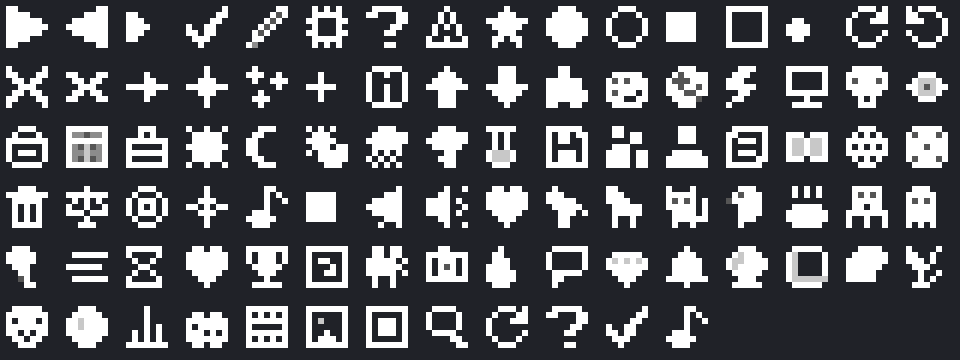
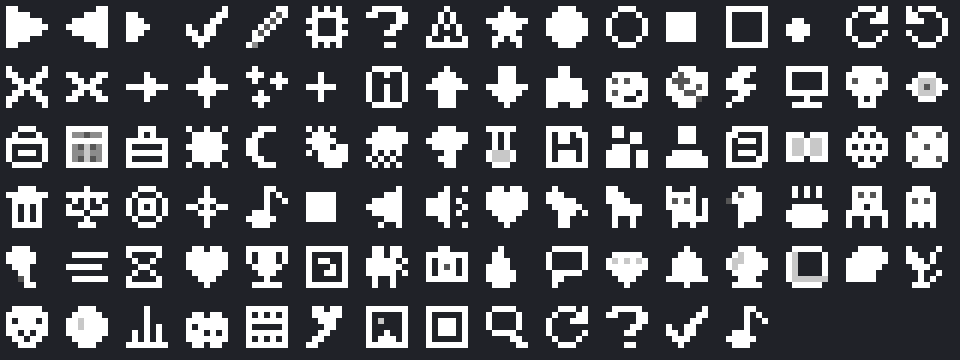
Publish Camera 1.7.1, GlassFrame 2.8.3, MobDesigner 1.4.1, ServerUI 1.16.0, ThemeCalm 1.0.2, ThemeHorror 2.3.4, ThemeLab 1.0.2

Changed region(s): [[0.3125, 0.825, 0.8125, 0.9778]]

diff --git a/serverui/build.py b/serverui/build.py
@@ -75,7 +75,7 @@ import zipfile
 import zlib
 
 NAME = "ServerUI"
-VERSION = "1.15.0"         # bumped with ../bump.py, never by hand
+VERSION = "1.16.0"         # bumped with ../bump.py, never by hand
 HERE = pathlib.Path(__file__).parent
 SRC = HERE / "src"
 DIST = HERE / "dist"
@@ -701,6 +701,13 @@ ART = {
            "#######",
            "#.#.#.#",
            "#######"],
+    "🔧": [".##.##.",          # a wrench: the plugins written here
+          ".#####.",
+          "..###..",
+          "...##..",
+          "..##...",
+          ".##....",
+          "##....."],
     "🖼": ["#######",          # a framed picture: the pattern gallery
           "#.....#",
           "#.+...#",

diff --git a/README.md b/README.md
@@ -10,7 +10,7 @@ pack.
 | [GlassFrame](glassframe/) | Glass with no borders at all, blocks and panes, so a window or floor reads as one clean sheet. Pairs with a plugin that draws the outline back only where the glass actually stops. | [`GlassFrame-2.8.3-borderless.zip`](glassframe/GlassFrame-2.8.3-borderless.zip) |
 | [Camera](camera/) | The Camera plugin's camera as a cute instant camera - empty, loaded, flashing - and its photos as polaroids tinted with each picture's own colour. Repaints two vanilla item definitions only where the plugin sets `custom_model_data`; real compasses and maps are untouched. | [`Camera-1.7.1.zip`](camera/Camera-1.7.1.zip) |
 | [MobDesigner](mobdesigner/) | The Mob Designer's designs: costumes drawn as an armour layer over every designed zombie, husk, drowned and skeleton, wings, weapon and hat models, aura sprites, a voice per design, the Hexer's repaint, and a picture for each design's spawn egg. Overrides vanilla item definitions only where the plugin sets `custom_model_data`. | [`MobDesigner-1.4.1.zip`](mobdesigner/MobDesigner-1.4.1.zip) |
-| [ServerUI](serverui/) | Pixel icons at the emoji code points the server's dialog menus use, drawn into the default font. Without the pack the menus show the same symbols in Unifont. | [`ServerUI-1.15.0.zip`](serverui/ServerUI-1.15.0.zip) |
+| [ServerUI](serverui/) | Pixel icons at the emoji code points the server's dialog menus use, drawn into the default font. Without the pack the menus show the same symbols in Unifont. | [`ServerUI-1.16.0.zip`](serverui/ServerUI-1.16.0.zip) |
 | [ThemeCalm](themecalm/) | Theme layer for the main server: warm gold hotbar frame, warmer sun, a soft chime on every menu click. | [`ThemeCalm-1.0.2.zip`](themecalm/ThemeCalm-1.0.2.zip) |
 | [ThemeLab](themelab/) | Theme layer for the test server: teal hearts, cyan experience bar and hotbar frame, a digital blip on every menu click. | [`ThemeLab-1.0.2.zip`](themelab/ThemeLab-1.0.2.zip) |
 | [ThemeHorror](themehorror/) | The Haunt plugin's companion layer, loaded all the time and painting only player states: dripping blood hearts, raw drumsticks and blood veins over the screen during its events, a blood moon while the director is armed. | [`ThemeHorror-2.3.4.zip`](themehorror/ThemeHorror-2.3.4.zip) |

diff --git a/serverui/README.md b/serverui/README.md
@@ -3,7 +3,7 @@
 Pixel icons for a Paper server's dialog menus, for Minecraft Java 26.2+, needing
 **no mods**. 2 KB.
 
-Download: [`ServerUI-1.15.0.zip`](ServerUI-1.15.0.zip)
+Download: [`ServerUI-1.16.0.zip`](ServerUI-1.16.0.zip)
 
 ## What it does
 

diff --git a/CHANGELOG.md b/CHANGELOG.md
@@ -2,6 +2,10 @@
 
 One entry per published version, newest first.
 
+## ServerUI 1.16.0
+
+the wrench glyph for 🧩 Plugins' own half
+
 ## ThemeLab 1.0.2
 
 Patch bump by publish-packs.py: the pack changed without a version bump.
